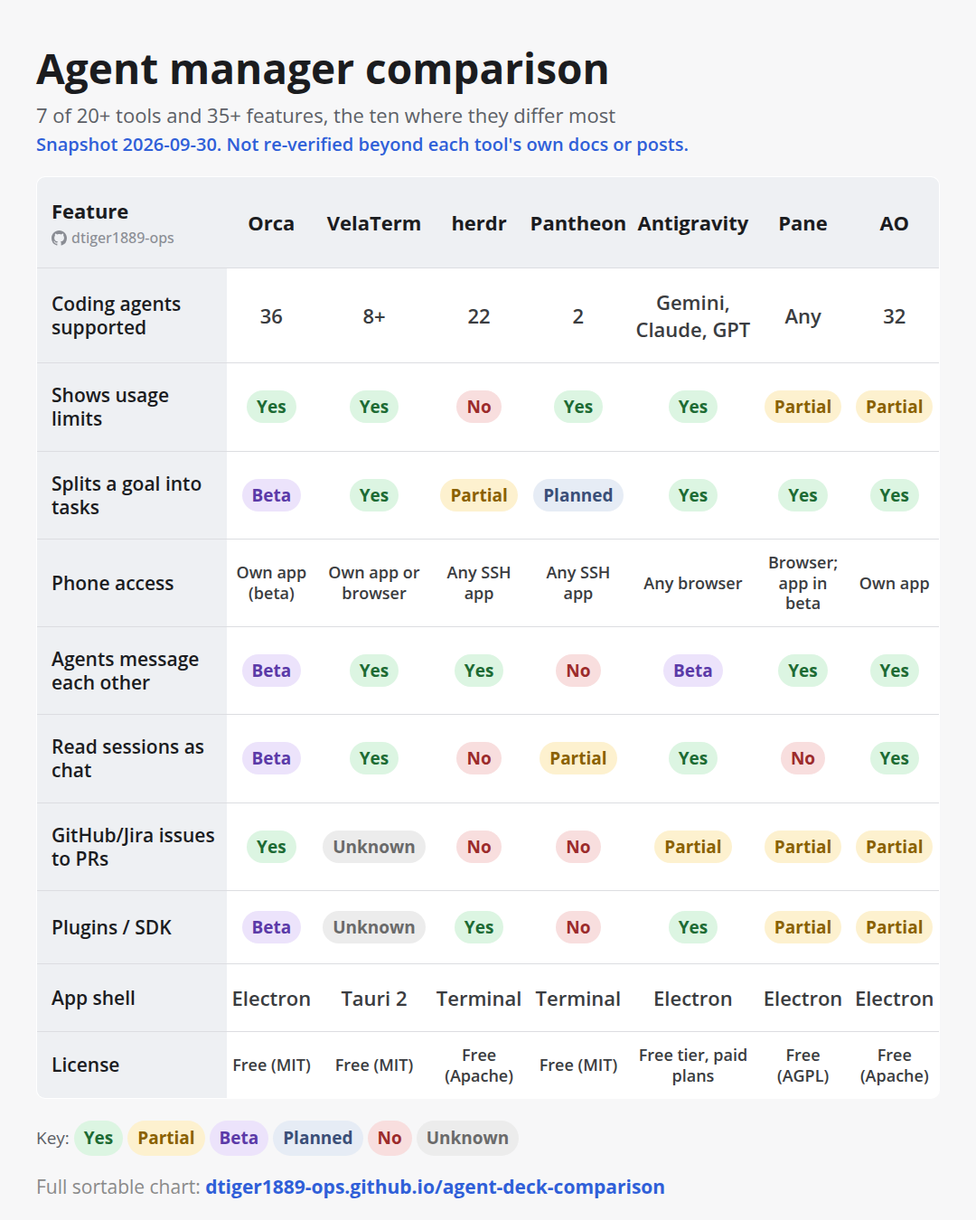
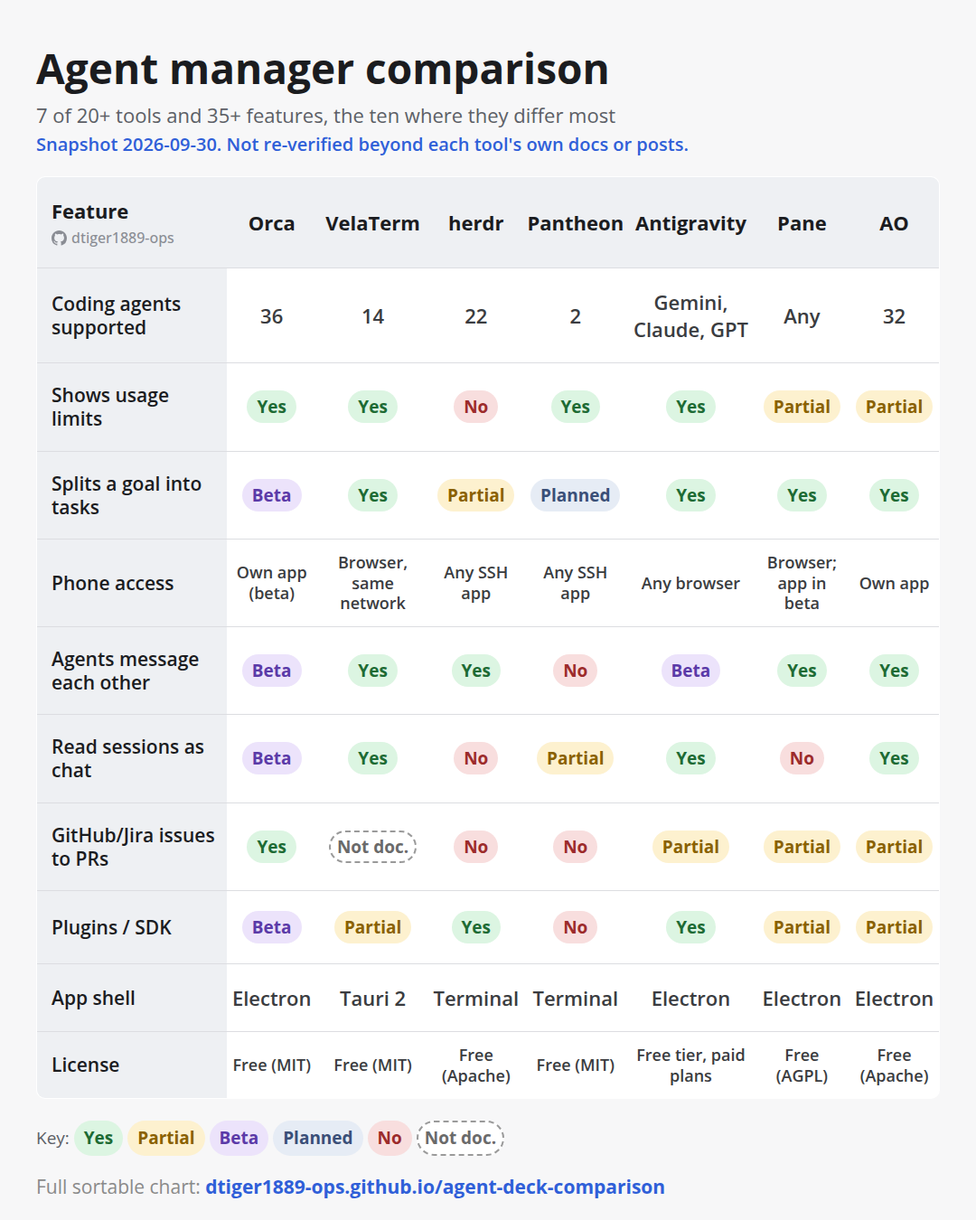
VelaTerm checked against its repo; no Unknown cells left anywhere
VelaTerm's column was built from the developer's launch posts only. It is now checked
against the repo, manual, changelog and v0.2.6 release: its 8 Unknown cells are filled
and 8 others corrected (the phone app is unpublished, so Planned, not Yes; Linux builds
are Electron; it resumes Claude/Codex after a limit reset). vibe-kanban's phone cell is
Partial (your own tunnel or relay). The page now shows the Unknown legend chip, filter
option, checkbox and note only when some cell is Unknown. Share images and the page
screenshot re-rendered; both images use the short Not doc. badge so seven columns fit.

diff --git a/assets/linkedin.html b/assets/linkedin.html
@@ -30,8 +30,8 @@
   <p class="snap">Snapshot 2026-09-30. Not re-verified beyond each tool's own docs or posts.</p>
   <table>
     <thead><tr><th>Feature<span class="wm"><svg class="gh" viewBox="0 0 16 16" width="17" height="17" aria-hidden="true"><path fill="currentColor" d="M8 0c4.42 0 8 3.58 8 8a8.013 8.013 0 0 1-5.45 7.59c-.4.08-.55-.17-.55-.38 0-.27.01-1.13.01-2.2 0-.75-.25-1.23-.54-1.48 1.78-.2 3.65-.88 3.65-3.95 0-.88-.31-1.59-.82-2.15.08-.2.36-1.02-.08-2.12 0 0-.67-.22-2.2.82-.64-.18-1.32-.27-2-.27-.68 0-1.36.09-2 .27-1.53-1.03-2.2-.82-2.2-.82-.44 1.1-.16 1.92-.08 2.12-.51.56-.82 1.28-.82 2.15 0 3.06 1.86 3.75 3.64 3.95-.23.2-.44.55-.51 1.07-.46.21-1.61.55-2.33-.66-.15-.24-.6-.83-1.23-.82-.67.01-.27.38.01.53.34.19.73.9.82 1.13.16.45.68 1.31 2.69.94 0 .67.01 1.3.01 1.49 0 .21-.15.45-.55.37A7.995 7.995 0 0 1 0 8c0-4.42 3.58-8 8-8Z"/></svg>dtiger1889-ops</span></th><th>Orca</th><th>VelaTerm</th><th>herdr</th><th>Pantheon</th><th>Paseo</th><th>Kepler</th><th>AO</th></tr></thead>
-    <tbody><tr><th>Coding agents supported</th><td class="plain">36</td><td class="plain">8+</td><td class="plain">22</td><td class="plain">2</td><td class="plain">41</td><td class="plain">9 + any ACP</td><td class="plain">32</td></tr><tr><th>App shell</th><td class="plain">Electron</td><td class="plain">Tauri 2</td><td class="plain">Terminal</td><td class="plain">Terminal</td><td class="plain">Electron</td><td class="plain">Electron</td><td class="plain">Electron</td></tr><tr><th>Shows usage limits</th><td><span class="b" style="background:#dcf5e2;color:#1d6b34">Yes</span></td><td><span class="b" style="background:#dcf5e2;color:#1d6b34">Yes</span></td><td><span class="b" style="background:#f8dede;color:#9c2b2b">No</span></td><td><span class="b" style="background:#dcf5e2;color:#1d6b34">Yes</span></td><td><span class="b" style="background:#dcf5e2;color:#1d6b34">Yes</span></td><td><span class="b" style="background:#dcf5e2;color:#1d6b34">Yes</span></td><td><span class="b" style="background:#fdf1cf;color:#8a6100">Partial</span></td></tr><tr><th>Answer "Allow?" prompts</th><td><span class="b" style="background:#ece3fb;color:#5b3aa8">Beta</span></td><td><span class="b" style="background:#dcf5e2;color:#1d6b34">Yes</span></td><td><span class="b" style="background:#f8dede;color:#9c2b2b">No</span></td><td><span class="b" style="background:#fdf1cf;color:#8a6100">Partial</span></td><td><span class="b" style="background:#dcf5e2;color:#1d6b34">Yes</span></td><td><span class="b" style="background:#dcf5e2;color:#1d6b34">Yes</span></td><td><span class="b" style="background:#dcf5e2;color:#1d6b34">Yes</span></td></tr><tr><th>Splits the work</th><td><span class="b" style="background:#ece3fb;color:#5b3aa8">Beta</span></td><td><span class="b" style="background:#dcf5e2;color:#1d6b34">Yes</span></td><td><span class="b" style="background:#fdf1cf;color:#8a6100">Partial</span></td><td><span class="b" style="background:#e6ecf5;color:#3a4f78">Planned</span></td><td><span class="b" style="background:#dcf5e2;color:#1d6b34">Yes</span></td><td><span class="b" style="background:#fdf1cf;color:#8a6100">Partial</span></td><td><span class="b" style="background:#dcf5e2;color:#1d6b34">Yes</span></td></tr><tr><th>GitHub/Jira issues to PRs</th><td><span class="b" style="background:#dcf5e2;color:#1d6b34">Yes</span></td><td><span class="b" style="background:#ececec;color:#6a6a6a">Unknown</span></td><td><span class="b" style="background:#f8dede;color:#9c2b2b">No</span></td><td><span class="b" style="background:#f8dede;color:#9c2b2b">No</span></td><td><span class="b" style="background:#fdf1cf;color:#8a6100">Partial</span></td><td><span class="b" style="background:#dcf5e2;color:#1d6b34">Yes</span></td><td><span class="b" style="background:#fdf1cf;color:#8a6100">Partial</span></td></tr><tr><th>Remote machines (SSH)</th><td><span class="b" style="background:#dcf5e2;color:#1d6b34">Yes</span></td><td><span class="b" style="background:#dcf5e2;color:#1d6b34">Yes</span></td><td><span class="b" style="background:#dcf5e2;color:#1d6b34">Yes</span></td><td><span class="b" style="background:#f8dede;color:#9c2b2b">No</span></td><td><span class="b" style="background:#dcf5e2;color:#1d6b34">Yes</span></td><td><span class="b" style="background:#dcf5e2;color:#1d6b34">Yes</span></td><td><span class="b" style="background:#f8dede;color:#9c2b2b">No</span></td></tr><tr><th>Phone app</th><td><span class="b" style="background:#ece3fb;color:#5b3aa8">Beta</span></td><td><span class="b" style="background:#dcf5e2;color:#1d6b34">Yes</span></td><td><span class="b" style="background:#f8dede;color:#9c2b2b">No</span></td><td><span class="b" style="background:#f8dede;color:#9c2b2b">No</span></td><td><span class="b" style="background:#dcf5e2;color:#1d6b34">Yes</span></td><td><span class="b" style="background:#f8dede;color:#9c2b2b">No</span></td><td><span class="b" style="background:#dcf5e2;color:#1d6b34">Yes</span></td></tr><tr><th>Voice input</th><td><span class="b" style="background:#dcf5e2;color:#1d6b34">Yes</span></td><td><span class="b" style="background:#ececec;color:#6a6a6a">Unknown</span></td><td><span class="b" style="background:#ffffff;color:#6a6a6a;border:2px dashed #9a9a9a;padding:3px 7px">Not doc.</span></td><td><span class="b" style="background:#f8dede;color:#9c2b2b">No</span></td><td><span class="b" style="background:#dcf5e2;color:#1d6b34">Yes</span></td><td><span class="b" style="background:#dcf5e2;color:#1d6b34">Yes</span></td><td><span class="b" style="background:#dcf5e2;color:#1d6b34">Yes</span></td></tr><tr><th>Runs in your terminal</th><td><span class="b" style="background:#f8dede;color:#9c2b2b">No</span></td><td><span class="b" style="background:#f8dede;color:#9c2b2b">No</span></td><td><span class="b" style="background:#dcf5e2;color:#1d6b34">Yes</span></td><td><span class="b" style="background:#dcf5e2;color:#1d6b34">Yes</span></td><td><span class="b" style="background:#f8dede;color:#9c2b2b">No</span></td><td><span class="b" style="background:#f8dede;color:#9c2b2b">No</span></td><td><span class="b" style="background:#f8dede;color:#9c2b2b">No</span></td></tr></tbody>
+    <tbody><tr><th>Coding agents supported</th><td class="plain">36</td><td class="plain">14</td><td class="plain">22</td><td class="plain">2</td><td class="plain">41</td><td class="plain">9 + any ACP</td><td class="plain">32</td></tr><tr><th>App shell</th><td class="plain">Electron</td><td class="plain">Tauri 2</td><td class="plain">Terminal</td><td class="plain">Terminal</td><td class="plain">Electron</td><td class="plain">Electron</td><td class="plain">Electron</td></tr><tr><th>Shows usage limits</th><td><span class="b" style="background:#dcf5e2;color:#1d6b34">Yes</span></td><td><span class="b" style="background:#dcf5e2;color:#1d6b34">Yes</span></td><td><span class="b" style="background:#f8dede;color:#9c2b2b">No</span></td><td><span class="b" style="background:#dcf5e2;color:#1d6b34">Yes</span></td><td><span class="b" style="background:#dcf5e2;color:#1d6b34">Yes</span></td><td><span class="b" style="background:#dcf5e2;color:#1d6b34">Yes</span></td><td><span class="b" style="background:#fdf1cf;color:#8a6100">Partial</span></td></tr><tr><th>Answer "Allow?" prompts</th><td><span class="b" style="background:#ece3fb;color:#5b3aa8">Beta</span></td><td><span class="b" style="background:#dcf5e2;color:#1d6b34">Yes</span></td><td><span class="b" style="background:#f8dede;color:#9c2b2b">No</span></td><td><span class="b" style="background:#fdf1cf;color:#8a6100">Partial</span></td><td><span class="b" style="background:#dcf5e2;color:#1d6b34">Yes</span></td><td><span class="b" style="background:#dcf5e2;color:#1d6b34">Yes</span></td><td><span class="b" style="background:#dcf5e2;color:#1d6b34">Yes</span></td></tr><tr><th>Splits the work</th><td><span class="b" style="background:#ece3fb;color:#5b3aa8">Beta</span></td><td><span class="b" style="background:#dcf5e2;color:#1d6b34">Yes</span></td><td><span class="b" style="background:#fdf1cf;color:#8a6100">Partial</span></td><td><span class="b" style="background:#e6ecf5;color:#3a4f78">Planned</span></td><td><span class="b" style="background:#dcf5e2;color:#1d6b34">Yes</span></td><td><span class="b" style="background:#fdf1cf;color:#8a6100">Partial</span></td><td><span class="b" style="background:#dcf5e2;color:#1d6b34">Yes</span></td></tr><tr><th>GitHub/Jira issues to PRs</th><td><span class="b" style="background:#dcf5e2;color:#1d6b34">Yes</span></td><td><span class="b" style="background:#ffffff;color:#6a6a6a;border:2px dashed #9a9a9a;padding:3px 7px">Not doc.</span></td><td><span class="b" style="background:#f8dede;color:#9c2b2b">No</span></td><td><span class="b" style="background:#f8dede;color:#9c2b2b">No</span></td><td><span class="b" style="background:#fdf1cf;color:#8a6100">Partial</span></td><td><span class="b" style="background:#dcf5e2;color:#1d6b34">Yes</span></td><td><span class="b" style="background:#fdf1cf;color:#8a6100">Partial</span></td></tr><tr><th>Remote machines (SSH)</th><td><span class="b" style="background:#dcf5e2;color:#1d6b34">Yes</span></td><td><span class="b" style="background:#dcf5e2;color:#1d6b34">Yes</span></td><td><span class="b" style="background:#dcf5e2;color:#1d6b34">Yes</span></td><td><span class="b" style="background:#f8dede;color:#9c2b2b">No</span></td><td><span class="b" style="background:#dcf5e2;color:#1d6b34">Yes</span></td><td><span class="b" style="background:#dcf5e2;color:#1d6b34">Yes</span></td><td><span class="b" style="background:#f8dede;color:#9c2b2b">No</span></td></tr><tr><th>Phone app</th><td><span class="b" style="background:#ece3fb;color:#5b3aa8">Beta</span></td><td><span class="b" style="background:#e6ecf5;color:#3a4f78">Planned</span></td><td><span class="b" style="background:#f8dede;color:#9c2b2b">No</span></td><td><span class="b" style="background:#f8dede;color:#9c2b2b">No</span></td><td><span class="b" style="background:#dcf5e2;color:#1d6b34">Yes</span></td><td><span class="b" style="background:#f8dede;color:#9c2b2b">No</span></td><td><span class="b" style="background:#dcf5e2;color:#1d6b34">Yes</span></td></tr><tr><th>Voice input</th><td><span class="b" style="background:#dcf5e2;color:#1d6b34">Yes</span></td><td><span class="b" style="background:#ffffff;color:#6a6a6a;border:2px dashed #9a9a9a;padding:3px 7px">Not doc.</span></td><td><span class="b" style="background:#ffffff;color:#6a6a6a;border:2px dashed #9a9a9a;padding:3px 7px">Not doc.</span></td><td><span class="b" style="background:#f8dede;color:#9c2b2b">No</span></td><td><span class="b" style="background:#dcf5e2;color:#1d6b34">Yes</span></td><td><span class="b" style="background:#dcf5e2;color:#1d6b34">Yes</span></td><td><span class="b" style="background:#dcf5e2;color:#1d6b34">Yes</span></td></tr><tr><th>Runs in your terminal</th><td><span class="b" style="background:#f8dede;color:#9c2b2b">No</span></td><td><span class="b" style="background:#f8dede;color:#9c2b2b">No</span></td><td><span class="b" style="background:#dcf5e2;color:#1d6b34">Yes</span></td><td><span class="b" style="background:#dcf5e2;color:#1d6b34">Yes</span></td><td><span class="b" style="background:#f8dede;color:#9c2b2b">No</span></td><td><span class="b" style="background:#f8dede;color:#9c2b2b">No</span></td><td><span class="b" style="background:#f8dede;color:#9c2b2b">No</span></td></tr></tbody>
   </table>
-  <p class="key">Key: <span class="b" style="background:#dcf5e2;color:#1d6b34">Yes</span> <span class="b" style="background:#fdf1cf;color:#8a6100">Partial</span> <span class="b" style="background:#ece3fb;color:#5b3aa8">Beta</span> <span class="b" style="background:#e6ecf5;color:#3a4f78">Planned</span> <span class="b" style="background:#f8dede;color:#9c2b2b">No</span> <span class="b" style="background:#ffffff;color:#6a6a6a;border:2px dashed #9a9a9a;padding:3px 7px">Not doc.</span> <span class="b" style="background:#ececec;color:#6a6a6a">Unknown</span></p>
+  <p class="key">Key: <span class="b" style="background:#dcf5e2;color:#1d6b34">Yes</span> <span class="b" style="background:#fdf1cf;color:#8a6100">Partial</span> <span class="b" style="background:#ece3fb;color:#5b3aa8">Beta</span> <span class="b" style="background:#e6ecf5;color:#3a4f78">Planned</span> <span class="b" style="background:#f8dede;color:#9c2b2b">No</span> <span class="b" style="background:#ffffff;color:#6a6a6a;border:2px dashed #9a9a9a;padding:3px 7px">Not doc.</span></p>
   <p class="footer">Full sortable chart: <b style="color:#2f5fd8">dtiger1889-ops.github.io/agent-deck-comparison</b></p>
 </body></html>

diff --git a/assets/share-2.html b/assets/share-2.html
@@ -30,8 +30,8 @@
   <p class="snap">Snapshot 2026-09-30. Not re-verified beyond each tool's own docs or posts.</p>
   <table>
     <thead><tr><th>Feature<span class="wm"><svg class="gh" viewBox="0 0 16 16" width="17" height="17" aria-hidden="true"><path fill="currentColor" d="M8 0c4.42 0 8 3.58 8 8a8.013 8.013 0 0 1-5.45 7.59c-.4.08-.55-.17-.55-.38 0-.27.01-1.13.01-2.2 0-.75-.25-1.23-.54-1.48 1.78-.2 3.65-.88 3.65-3.95 0-.88-.31-1.59-.82-2.15.08-.2.36-1.02-.08-2.12 0 0-.67-.22-2.2.82-.64-.18-1.32-.27-2-.27-.68 0-1.36.09-2 .27-1.53-1.03-2.2-.82-2.2-.82-.44 1.1-.16 1.92-.08 2.12-.51.56-.82 1.28-.82 2.15 0 3.06 1.86 3.75 3.64 3.95-.23.2-.44.55-.51 1.07-.46.21-1.61.55-2.33-.66-.15-.24-.6-.83-1.23-.82-.67.01-.27.38.01.53.34.19.73.9.82 1.13.16.45.68 1.31 2.69.94 0 .67.01 1.3.01 1.49 0 .21-.15.45-.55.37A7.995 7.995 0 0 1 0 8c0-4.42 3.58-8 8-8Z"/></svg>dtiger1889-ops</span></th><th>Orca</th><th>VelaTerm</th><th>herdr</th><th>Pantheon</th><th>Antigravity</th><th>Pane</th><th>AO</th></tr></thead>
-    <tbody><tr><th>Coding agents supported</th><td class="plain">36</td><td class="plain">8+</td><td class="plain">22</td><td class="plain">2</td><td class="plain">Gemini, Claude, GPT</td><td class="plain">Any</td><td class="plain">32</td></tr><tr><th>Shows usage limits</th><td><span class="b" style="background:#dcf5e2;color:#1d6b34">Yes</span></td><td><span class="b" style="background:#dcf5e2;color:#1d6b34">Yes</span></td><td><span class="b" style="background:#f8dede;color:#9c2b2b">No</span></td><td><span class="b" style="background:#dcf5e2;color:#1d6b34">Yes</span></td><td><span class="b" style="background:#dcf5e2;color:#1d6b34">Yes</span></td><td><span class="b" style="background:#fdf1cf;color:#8a6100">Partial</span></td><td><span class="b" style="background:#fdf1cf;color:#8a6100">Partial</span></td></tr><tr><th>Splits a goal into tasks</th><td><span class="b" style="background:#ece3fb;color:#5b3aa8">Beta</span></td><td><span class="b" style="background:#dcf5e2;color:#1d6b34">Yes</span></td><td><span class="b" style="background:#fdf1cf;color:#8a6100">Partial</span></td><td><span class="b" style="background:#e6ecf5;color:#3a4f78">Planned</span></td><td><span class="b" style="background:#dcf5e2;color:#1d6b34">Yes</span></td><td><span class="b" style="background:#dcf5e2;color:#1d6b34">Yes</span></td><td><span class="b" style="background:#dcf5e2;color:#1d6b34">Yes</span></td></tr><tr><th>Phone access</th><td class="plain small">Own app (beta)</td><td class="plain small">Own app or browser</td><td class="plain small">Any SSH app</td><td class="plain small">Any SSH app</td><td class="plain small">Any browser</td><td class="plain small">Browser; app in beta</td><td class="plain small">Own app</td></tr><tr><th>Agents message each other</th><td><span class="b" style="background:#ece3fb;color:#5b3aa8">Beta</span></td><td><span class="b" style="background:#dcf5e2;color:#1d6b34">Yes</span></td><td><span class="b" style="background:#dcf5e2;color:#1d6b34">Yes</span></td><td><span class="b" style="background:#f8dede;color:#9c2b2b">No</span></td><td><span class="b" style="background:#ece3fb;color:#5b3aa8">Beta</span></td><td><span class="b" style="background:#dcf5e2;color:#1d6b34">Yes</span></td><td><span class="b" style="background:#dcf5e2;color:#1d6b34">Yes</span></td></tr><tr><th>Read sessions as chat</th><td><span class="b" style="background:#ece3fb;color:#5b3aa8">Beta</span></td><td><span class="b" style="background:#dcf5e2;color:#1d6b34">Yes</span></td><td><span class="b" style="background:#f8dede;color:#9c2b2b">No</span></td><td><span class="b" style="background:#fdf1cf;color:#8a6100">Partial</span></td><td><span class="b" style="background:#dcf5e2;color:#1d6b34">Yes</span></td><td><span class="b" style="background:#f8dede;color:#9c2b2b">No</span></td><td><span class="b" style="background:#dcf5e2;color:#1d6b34">Yes</span></td></tr><tr><th>GitHub/Jira issues to PRs</th><td><span class="b" style="background:#dcf5e2;color:#1d6b34">Yes</span></td><td><span class="b" style="background:#ececec;color:#6a6a6a">Unknown</span></td><td><span class="b" style="background:#f8dede;color:#9c2b2b">No</span></td><td><span class="b" style="background:#f8dede;color:#9c2b2b">No</span></td><td><span class="b" style="background:#fdf1cf;color:#8a6100">Partial</span></td><td><span class="b" style="background:#fdf1cf;color:#8a6100">Partial</span></td><td><span class="b" style="background:#fdf1cf;color:#8a6100">Partial</span></td></tr><tr><th>Plugins / SDK</th><td><span class="b" style="background:#ece3fb;color:#5b3aa8">Beta</span></td><td><span class="b" style="background:#ececec;color:#6a6a6a">Unknown</span></td><td><span class="b" style="background:#dcf5e2;color:#1d6b34">Yes</span></td><td><span class="b" style="background:#f8dede;color:#9c2b2b">No</span></td><td><span class="b" style="background:#dcf5e2;color:#1d6b34">Yes</span></td><td><span class="b" style="background:#fdf1cf;color:#8a6100">Partial</span></td><td><span class="b" style="background:#fdf1cf;color:#8a6100">Partial</span></td></tr><tr><th>App shell</th><td class="plain">Electron</td><td class="plain">Tauri 2</td><td class="plain">Terminal</td><td class="plain">Terminal</td><td class="plain">Electron</td><td class="plain">Electron</td><td class="plain">Electron</td></tr><tr><th>License</th><td class="plain small">Free (MIT)</td><td class="plain small">Free (MIT)</td><td class="plain small">Free (Apache)</td><td class="plain small">Free (MIT)</td><td class="plain small">Free tier, paid plans</td><td class="plain small">Free (AGPL)</td><td class="plain small">Free (Apache)</td></tr></tbody>
+    <tbody><tr><th>Coding agents supported</th><td class="plain">36</td><td class="plain">14</td><td class="plain">22</td><td class="plain">2</td><td class="plain">Gemini, Claude, GPT</td><td class="plain">Any</td><td class="plain">32</td></tr><tr><th>Shows usage limits</th><td><span class="b" style="background:#dcf5e2;color:#1d6b34">Yes</span></td><td><span class="b" style="background:#dcf5e2;color:#1d6b34">Yes</span></td><td><span class="b" style="background:#f8dede;color:#9c2b2b">No</span></td><td><span class="b" style="background:#dcf5e2;color:#1d6b34">Yes</span></td><td><span class="b" style="background:#dcf5e2;color:#1d6b34">Yes</span></td><td><span class="b" style="background:#fdf1cf;color:#8a6100">Partial</span></td><td><span class="b" style="background:#fdf1cf;color:#8a6100">Partial</span></td></tr><tr><th>Splits a goal into tasks</th><td><span class="b" style="background:#ece3fb;color:#5b3aa8">Beta</span></td><td><span class="b" style="background:#dcf5e2;color:#1d6b34">Yes</span></td><td><span class="b" style="background:#fdf1cf;color:#8a6100">Partial</span></td><td><span class="b" style="background:#e6ecf5;color:#3a4f78">Planned</span></td><td><span class="b" style="background:#dcf5e2;color:#1d6b34">Yes</span></td><td><span class="b" style="background:#dcf5e2;color:#1d6b34">Yes</span></td><td><span class="b" style="background:#dcf5e2;color:#1d6b34">Yes</span></td></tr><tr><th>Phone access</th><td class="plain small">Own app (beta)</td><td class="plain small">Browser, same network</td><td class="plain small">Any SSH app</td><td class="plain small">Any SSH app</td><td class="plain small">Any browser</td><td class="plain small">Browser; app in beta</td><td class="plain small">Own app</td></tr><tr><th>Agents message each other</th><td><span class="b" style="background:#ece3fb;color:#5b3aa8">Beta</span></td><td><span class="b" style="background:#dcf5e2;color:#1d6b34">Yes</span></td><td><span class="b" style="background:#dcf5e2;color:#1d6b34">Yes</span></td><td><span class="b" style="background:#f8dede;color:#9c2b2b">No</span></td><td><span class="b" style="background:#ece3fb;color:#5b3aa8">Beta</span></td><td><span class="b" style="background:#dcf5e2;color:#1d6b34">Yes</span></td><td><span class="b" style="background:#dcf5e2;color:#1d6b34">Yes</span></td></tr><tr><th>Read sessions as chat</th><td><span class="b" style="background:#ece3fb;color:#5b3aa8">Beta</span></td><td><span class="b" style="background:#dcf5e2;color:#1d6b34">Yes</span></td><td><span class="b" style="background:#f8dede;color:#9c2b2b">No</span></td><td><span class="b" style="background:#fdf1cf;color:#8a6100">Partial</span></td><td><span class="b" style="background:#dcf5e2;color:#1d6b34">Yes</span></td><td><span class="b" style="background:#f8dede;color:#9c2b2b">No</span></td><td><span class="b" style="background:#dcf5e2;color:#1d6b34">Yes</span></td></tr><tr><th>GitHub/Jira issues to PRs</th><td><span class="b" style="background:#dcf5e2;color:#1d6b34">Yes</span></td><td><span class="b" style="background:#ffffff;color:#6a6a6a;border:2px dashed #9a9a9a;padding:3px 7px">Not doc.</span></td><td><span class="b" style="background:#f8dede;color:#9c2b2b">No</span></td><td><span class="b" style="background:#f8dede;color:#9c2b2b">No</span></td><td><span class="b" style="background:#fdf1cf;color:#8a6100">Partial</span></td><td><span class="b" style="background:#fdf1cf;color:#8a6100">Partial</span></td><td><span class="b" style="background:#fdf1cf;color:#8a6100">Partial</span></td></tr><tr><th>Plugins / SDK</th><td><span class="b" style="background:#ece3fb;color:#5b3aa8">Beta</span></td><td><span class="b" style="background:#fdf1cf;color:#8a6100">Partial</span></td><td><span class="b" style="background:#dcf5e2;color:#1d6b34">Yes</span></td><td><span class="b" style="background:#f8dede;color:#9c2b2b">No</span></td><td><span class="b" style="background:#dcf5e2;color:#1d6b34">Yes</span></td><td><span class="b" style="background:#fdf1cf;color:#8a6100">Partial</span></td><td><span class="b" style="background:#fdf1cf;color:#8a6100">Partial</span></td></tr><tr><th>App shell</th><td class="plain">Electron</td><td class="plain">Tauri 2</td><td class="plain">Terminal</td><td class="plain">Terminal</td><td class="plain">Electron</td><td class="plain">Electron</td><td class="plain">Electron</td></tr><tr><th>License</th><td class="plain small">Free (MIT)</td><td class="plain small">Free (MIT)</td><td class="plain small">Free (Apache)</td><td class="plain small">Free (MIT)</td><td class="plain small">Free tier, paid plans</td><td class="plain small">Free (AGPL)</td><td class="plain small">Free (Apache)</td></tr></tbody>
   </table>
-  <p class="key">Key: <span class="b" style="background:#dcf5e2;color:#1d6b34">Yes</span> <span class="b" style="background:#fdf1cf;color:#8a6100">Partial</span> <span class="b" style="background:#ece3fb;color:#5b3aa8">Beta</span> <span class="b" style="background:#e6ecf5;color:#3a4f78">Planned</span> <span class="b" style="background:#f8dede;color:#9c2b2b">No</span> <span class="b" style="background:#ececec;color:#6a6a6a">Unknown</span></p>
+  <p class="key">Key: <span class="b" style="background:#dcf5e2;color:#1d6b34">Yes</span> <span class="b" style="background:#fdf1cf;color:#8a6100">Partial</span> <span class="b" style="background:#ece3fb;color:#5b3aa8">Beta</span> <span class="b" style="background:#e6ecf5;color:#3a4f78">Planned</span> <span class="b" style="background:#f8dede;color:#9c2b2b">No</span> <span class="b" style="background:#ffffff;color:#6a6a6a;border:2px dashed #9a9a9a;padding:3px 7px">Not doc.</span></p>
   <p class="footer">Full sortable chart: <b style="color:#2f5fd8">dtiger1889-ops.github.io/agent-deck-comparison</b></p>
 </body></html>

diff --git a/index.html b/index.html
@@ -337,7 +337,7 @@
   <details class="about">
     <summary>About this comparison</summary>
     <p><b>Column order.</b> Featured tools come first. Every other tool follows A-Z. GitHub stars (checked 2026-09-29) are in the By tool view.</p>
-    <p>Cells come from each tool's own docs, sites, source or posts at the dates shown for that tool, and were not re-verified after that pass. <b>Not documented</b> means the tool's own materials don't mention it, which is not the same as a confirmed <b>No</b>. <b>Unknown</b> means the tool wasn't researched that far.</p>
+    <p>Cells come from each tool's own docs, sites, source or posts at the dates shown for that tool, and were not re-verified after that pass. <b>Not documented</b> means the tool's own materials don't mention it, which is not the same as a confirmed <b>No</b>. <span id="unknown-note"><b>Unknown</b> means the tool wasn't researched that far.</span></p>
   </details>
   <div class="legend" id="legend"></div>
 </header>
@@ -362,7 +362,7 @@
       </select>
     </label>
     <input type="text" id="filter-search" class="more" placeholder="Filter features…">
-    <label class="more"><input type="checkbox" id="filter-hide-unknown"> Hide unknown-only rows</label>
+    <label class="more" id="hide-unknown-label"><input type="checkbox" id="filter-hide-unknown"> Hide unknown-only rows</label>
     <label class="more"><input type="checkbox" id="compact"> Compact (badges only)</label>
    </div>
   </div>
@@ -398,6 +398,7 @@ const MARK_LABEL = {
 };
 
 let DATA = null;
+let HAS_UNKNOWN = false;   // true when any cell is Unknown; the Unknown filter, legend chip and note show only then
 let table = null;                 // the Tabulator instance (feature matrix)
 let VIS = [];                     // tools currently shown as columns (DATA order)
 let bytoolSortKey = "name";
@@ -428,11 +429,11 @@ function filterOptions(f) {
   const cells = DATA.tools.map(t => t.features[f.key]);
   const isFact = cells.every(c => c.mark === "info" || c.mark === "unknown");
   if (!isFact) {
-    return [["", "Any"], ["has", "Has it"], ["hasany", "Has it (incl. partial / exp.)"], ["no", "Doesn't have it"], ["undocumented", "Not documented"], ["unknown", "Unknown"]];
+    return [["", "Any"], ["has", "Has it"], ["hasany", "Has it (incl. partial / exp.)"], ["no", "Doesn't have it"], ["undocumented", "Not documented"]].concat(HAS_UNKNOWN ? [["unknown", "Unknown"]] : []);
   }
   const cats = [...new Set(DATA.tools.map(t => category(f.key, t.features[f.key])))];
   if (["harness_count", "languages", "download_size"].includes(f.key)) return null;   // counts and sizes: nothing useful to pick
-  if (f.key === "os") return [["", "Any"], ["os:Windows", "Runs on Windows"], ["os:macOS", "Runs on macOS"], ["os:Linux", "Runs on Linux"], ["os:browser", "Works in a browser"], ["unknown", "Not verified"]];
+  if (f.key === "os") return [["", "Any"], ["os:Windows", "Runs on Windows"], ["os:macOS", "Runs on macOS"], ["os:Linux", "Runs on Linux"], ["os:browser", "Works in a browser"]].concat(HAS_UNKNOWN ? [["unknown", "Not verified"]] : []);
   if (cats.length < 2 || cats.length > 8) return null;
   return [["", "Any"], ...cats.map(c => ["cat:" + c, c])];
 }
@@ -484,7 +485,9 @@ function rowPasses(f) {
 function renderLegend() {
   const el = document.getElementById("legend");
   el.innerHTML = "";
-  MARK_ORDER.filter(m => m !== "info").forEach(m => {
+  // Only marks that appear somewhere in the data get a legend chip.
+  const used = new Set(DATA.tools.flatMap(t => Object.values(t.features).map(c => c.mark)));
+  MARK_ORDER.filter(m => m !== "info" && used.has(m)).forEach(m => {
     const span = document.createElement("span");
     span.className = "badge badge-" + (m === "n/a" ? "na" : m);
     span.textContent = MARK_LABEL[m];
@@ -941,6 +944,11 @@ fetch("data/tools.json")
   .then(r => r.json())
   .then(data => {
     DATA = data;
+    HAS_UNKNOWN = data.tools.some(t => Object.values(t.features).some(c => c.mark === "unknown"));
+    if (!HAS_UNKNOWN) {
+      document.getElementById("unknown-note").style.display = "none";
+      document.getElementById("hide-unknown-label").style.display = "none";
+    }
     document.getElementById("n-tools").textContent = data.tools.length;
     document.getElementById("n-features").textContent = data.features.length;
     shownTools = new Set(DEFAULT_TOOLS.filter(n => data.tools.some(t => t.name === n)));

diff --git a/tools/build_data.py b/tools/build_data.py
@@ -114,48 +114,49 @@ orca = {
 # ---- VelaTerm ----
 velaterm = {
     "name": "VelaTerm", "url": "https://velaterm.com", "category": "agent manager",
-    "where_agents_run": "your machine + remote (SSH), plus browser pairing and a phone app",
-    "license": "MIT, v0.2.x, free", "checked_on": "2026-09-28, author's posts only",
-    "source_note": "Not independently verified: every cell comes from two of the developer's own launch posts, not the repo or site.",
+    "where_agents_run": "your machine + remote machines over SSH (or joined to your account with vela-server); phone or any browser through a pairing link",
+    "license": "MIT, free", "checked_on": "2026-09-30 (repo/docs pass)",
+    "source_note": "Checked against its README, package.json, the file tree, all 16 English user-manual chapters and the changelog on velaterm.com/docs, and the v0.2.6 release page (2026-09-30). Not installed or run here.",
     "is_authors_own": False,
     "features": {
-        "multi_provider_supervision": c("yes", "8+ named agents (Claude Code, Codex, OpenCode, Copilot, Cursor, Antigravity, Cline, Pi) \"and more\""),
-        "harness_count": c("info", "8+ (Claude Code, Codex, OpenCode, Copilot, Cursor, Antigravity, Cline, Pi...)"),
-        "needs_you_signal": c("yes", "Live status plus phone push (underlying mechanism not stated)"),
-        "approve_deny_prompt": c("yes", "\"Answer agents\" from the phone"),
-        "conversation_gui_view": c("yes", "Default view, plus the same session's terminal view alongside it"),
-        "real_terminal": c("yes", "Each session is a real PTY that keeps running in the background"),
-        "session_organization": c("yes", "Projects, then nested groups to any depth, then sessions"),
-        "usage_hud": c("yes", "Plan quota, context and tokens in its side panel (README, checked 2026-09-29)"),
-        "burn_rate_forecast": c("undocumented", "Not mentioned in its launch posts"),
-        "limit_governor": c("undocumented", "Not mentioned in its launch posts"),
-        "vault_task_source": c("no", "Has a notes knowledge base, not a task queue"),
-        "issue_tracker_pipeline": c("unknown", "Not claimed either way"),
-        "worktree_management": c("yes", "Optional per launch: none, one shared worktree, or one per session"),
-        "planner_orchestrator": c("yes", "Plan/Execute: a planner splits the task, you approve the split, executors build each part in parallel"),
-        "agent_to_agent_messaging": c("yes", "Search another session's conversation, ask about it, or message/steer a running session, across providers"),
-        "cross_provider_delegation": c("yes", "Visible in one place"),
-        "always_on_assistant": c("no", "None"),
-        "knowledge_base": c("yes", "Save what a session learned; agents query it before acting; local code-graph queries with no model call"),
-        "builtin_editors_browser": c("yes", "Markdown editor, code editor, image viewer, browser tab, also usable remotely"),
-        "native_mobile_app": c("yes", "iOS/Android app with push notifications"),
-        "phone_no_new_app": c("yes", "Any browser via an end-to-end-encrypted pairing link, no install"),
-        "remote_ssh": c("yes", "SSH including editing remote files"),
-        "account_hotswap": c("unknown", "Not claimed either way"),
-        "prompt_scratchpad": c("unknown", "Not claimed either way"),
-        "saved_prompt_library": c("unknown", "Not claimed either way"),
-        "appearance_control": c("unknown", "Not claimed either way"),
-        "extensibility": c("unknown", "Not claimed either way"),
-        "teams_multiuser": c("partial", "Account device list"),
-        "voice_input": c("unknown", "Not claimed either way"),
-        "license_cost": c("info", "MIT, free, uses your own subscriptions"),
-        "app_shell": c("info", "Tauri 2 (Rust + system WebView); repo also carries a secondary Electron shell, not the primary build"),
+        "multi_provider_supervision": c("yes", "14 agents, each run as a managed session"),
+        "harness_count": c("info", "14, including Claude Code, Codex, OpenCode, Copilot, Cursor"),
+        "needs_you_signal": c("yes", "Status dots, system notification, unread badge"),
+        "approve_deny_prompt": c("yes", "Allow and Deny cards in chat view, also from a phone browser"),
+        "cross_provider_delegation": c("yes", "Child sessions on any of four agents, under the parent"),
+        "always_on_assistant": c("undocumented", "Not in its docs (checked 2026-09-30)"),
+        "conversation_gui_view": c("yes", "Chat view for 5 agents; switch to terminal view anytime"),
+        "real_terminal": c("yes", "Every session is a real terminal that keeps running"),
+        "session_organization": c("yes", "Projects, collections, nested groups, sessions"),
+        "prompt_scratchpad": c("partial", "Unsent text and queued messages kept; no drafts pad"),
+        "saved_prompt_library": c("undocumented", "Presets save launch settings, not prompts (checked 2026-09-30)"),
+        "builtin_editors_browser": c("yes", "Markdown and code editors, image viewer, browser tab"),
+        "appearance_control": c("yes", "Light/dark, accent, density; interface, terminal and chat fonts"),
+        "usage_hud": c("yes", "Plan usage and reset times for Claude, Codex, Grok"),
+        "burn_rate_forecast": c("undocumented", "Shows usage and reset times only; no forecast in docs (checked 2026-09-30)"),
+        "limit_governor": c("partial", "Resumes Claude or Codex after a limit resets; no pause before it"),
+        "account_hotswap": c("undocumented", "Only sign in again or sign out; no switching in docs (checked 2026-09-30)"),
+        "vault_task_source": c("partial", "Opens an Obsidian vault for agents to search; not a task list"),
+        "issue_tracker_pipeline": c("undocumented", "Not in its docs; merges branches locally, no issues or PRs (checked 2026-09-30)"),
+        "worktree_management": c("yes", "Optional worktree per child session, graphical merge"),
+        "planner_orchestrator": c("yes", "Planner splits the task, you edit it, executors build in parallel"),
+        "agent_to_agent_messaging": c("yes", "Sessions search, read and message each other"),
+        "knowledge_base": c("yes", "Session knowledge, your Markdown notes and a code graph, searchable by agents"),
+        "native_mobile_app": c("planned", "iOS and Android app in development, not yet published"),
+        "phone_no_new_app": c("yes", "Phone browser via a pairing link, encrypted"),
+        "remote_ssh": c("yes", "SSH to Linux, macOS or Windows; sessions keep running there"),
+        "voice_input": c("undocumented", "Not in its docs (checked 2026-09-30)"),
+        "os": c("info", "Windows, macOS, Linux; any browser; phone app not yet published"),
+        "app_shell": c("info", "Tauri 2 on macOS and Windows; Electron on Linux since v0.2.6"),
         "languages": c("info", "TypeScript ~46%, Rust ~39%, Python ~8%"),
-        "background_process": c("unknown", "not verified: a minimal headless `vela-server` build exists but isn't documented as running alongside the desktop app"),
-        "download_size": c("info", "v0.2.5: 59 MB Windows min-setup / 148 MB full-setup, 49-51 MB mac dmg"),
-        "ram_vs_claude_desktop": c("info", "Small (estimate: Tauri app on the system WebView)"),
-        "runs_in_terminal": c("no", "Own app; the Windows installer bundles Git Bash"),
-        "stability_maturity": c("info", "v0.2.x, launched 2026-09-28, not independently verified"),
+        "background_process": c("info", "None locally; SSH hosts run a vela-server process"),
+        "download_size": c("info", "v0.2.6: 59.5 MB Windows min / 148 MB full setup, 49.8-51.1 MB macOS dmg, 140-142 MB Linux AppImage"),
+        "ram_vs_claude_desktop": c("info", "Small (estimate: Tauri app on the system WebView; Linux build is Electron)"),
+        "runs_in_terminal": c("no", "Own desktop app; the Windows full installer bundles Git Bash"),
+        "license_cost": c("info", "MIT, free, uses your own subscriptions"),
+        "extensibility": c("partial", "Scriptable session commands and agent skills; no plugin API"),
+        "teams_multiuser": c("undocumented", "Not in its docs; sharing is between your own devices (checked 2026-09-30)"),
+        "stability_maturity": c("info", "v0.2.6 (2026-09-30); public since July 2026, near-daily releases; account sharing experimental"),
     },
 }
 
@@ -1079,7 +1080,7 @@ vibekanban = {
         "agent_to_agent_messaging": c("yes", "Agents prompt and read other sessions via its MCP server"),
         "knowledge_base": c("undocumented", "Not in its docs (checked 2026-09-29)"),
         "native_mobile_app": c("no", "No phone app; browser only"),
-        "phone_no_new_app": c("unknown", "Phone browser pairing via its cloud; untested since shutdown"),
+        "phone_no_new_app": c("partial", "Phone browser via your own tunnel or relay; hosted pairing unconfirmed"),
         "remote_ssh": c("partial", "Can run on a remote server; no remote agents from local app"),
         "voice_input": c("no", "No dictation"),
         "os": c("info", "Windows, macOS, Linux; any browser"),
@@ -1515,7 +1516,7 @@ STARS = {
     "Orca": 81580, "herdr": 41461, "vibe-kanban": 28221, "T3 Code": 23911, "Wave Terminal": 22388,
     "Paseo": 19013, "Superset": 14740, "Agent Orchestrator (AO)": 12530, "Nimbalyst": 1803,
     "OpenCove": 1600, "CCManager": 1256, "Parallel Code": 1026, "agent-manager": 540, "Pane": 497,
-    "micracode": 289, "VibeTree": 267, "Claude Command Center": 175, "VelaTerm": 230, "Jenny": 47, "Pantheon": 0,
+    "micracode": 289, "VibeTree": 267, "Claude Command Center": 175, "VelaTerm": 241, "Jenny": 47, "Pantheon": 0,
 }
 # agtx: exact count from the repos.ecosyste.ms mirror (synced 2026-09-25); GitHub's page shows 1.7k.
 STARS["agtx"] = 1692
@@ -1525,7 +1526,6 @@ for t in TOOLS:
 # Operating systems: release assets / vendor pages as recorded in the source doc and the raw-evidence
 # file (2026-09-28). Anything not on record stays "not verified".
 OS = {
-    "VelaTerm": c("info", "Windows, macOS, Linux; iOS/Android app; any browser"),
     "herdr": c("info", "macOS, Linux, Windows (beta)"),
     "Pantheon": c("info", "Windows only (MSYS2 + tmux); phone over SSH"),
 }

diff --git a/tools/build_linkedin.py b/tools/build_linkedin.py
@@ -64,7 +64,7 @@ if SET == "2":
 # Short text for the text rows, condensed from each cell in data/tools.json.
 TEXT_ROWS = {
     "phone_access": {
-        "Orca": "Own app (beta)", "VelaTerm": "Own app or browser", "herdr": "Any SSH app",
+        "Orca": "Own app (beta)", "VelaTerm": "Browser, same network", "herdr": "Any SSH app",
         "Pantheon": "Any SSH app", "Paseo": "Own app or browser", "GitKraken Kepler": "Browser (paid plans)",
         "Google Antigravity": "Any browser", "Pane": "Browser; app in beta",
         "Agent Orchestrator (AO)": "Own app",
@@ -83,7 +83,7 @@ TEXT_ROWS = {
 
 SHORT_AGENTS = {
     "Orca": "36",
-    "VelaTerm": "8+",
+    "VelaTerm": "14",
     "herdr": "22",
     "Pantheon": "2",
     "Paseo": "41",
@@ -116,9 +116,8 @@ MARK_STYLE = {
     "n/a": ("#f2f2f2", "#8a8a8a", "N/A"),
 }
 
-if SET == "1":
-    # Seven columns of "Not documented" do not fit at 1080 px; image 1 uses the short form it was approved with.
-    MARK_STYLE["undocumented"] = ("#ffffff", "#6a6a6a", "Not doc.")
+# The full "Not documented" badge is too wide for seven columns at 1080 px; both images use the short form.
+MARK_STYLE["undocumented"] = ("#ffffff", "#6a6a6a", "Not doc.")
 
 tools_by_name = {t["name"]: t for t in DATA["tools"]}
 tools = [tools_by_name[n] for n in TOOL_ORDER]
